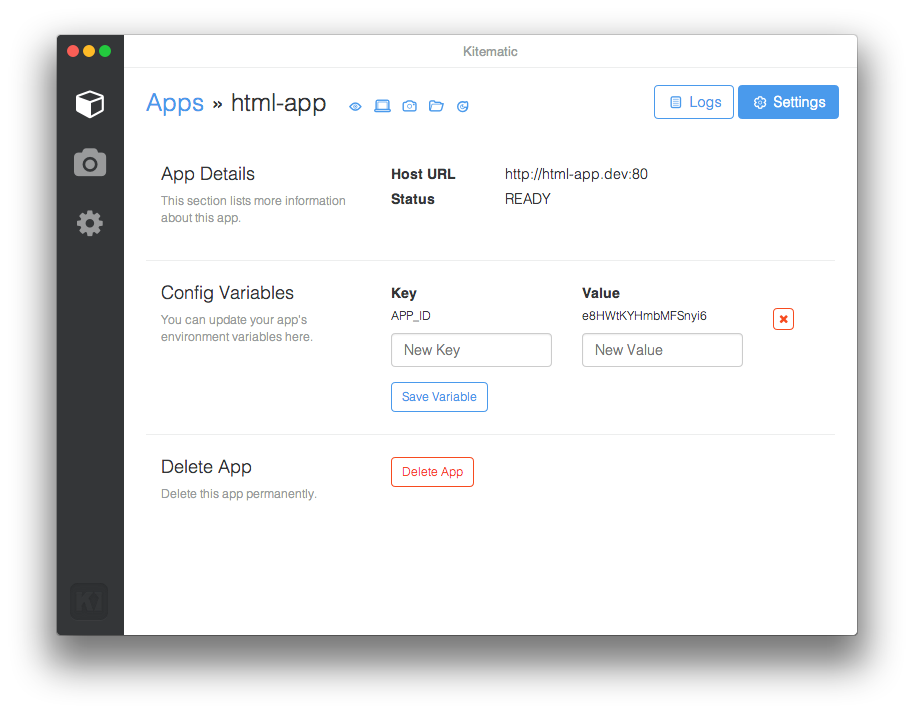
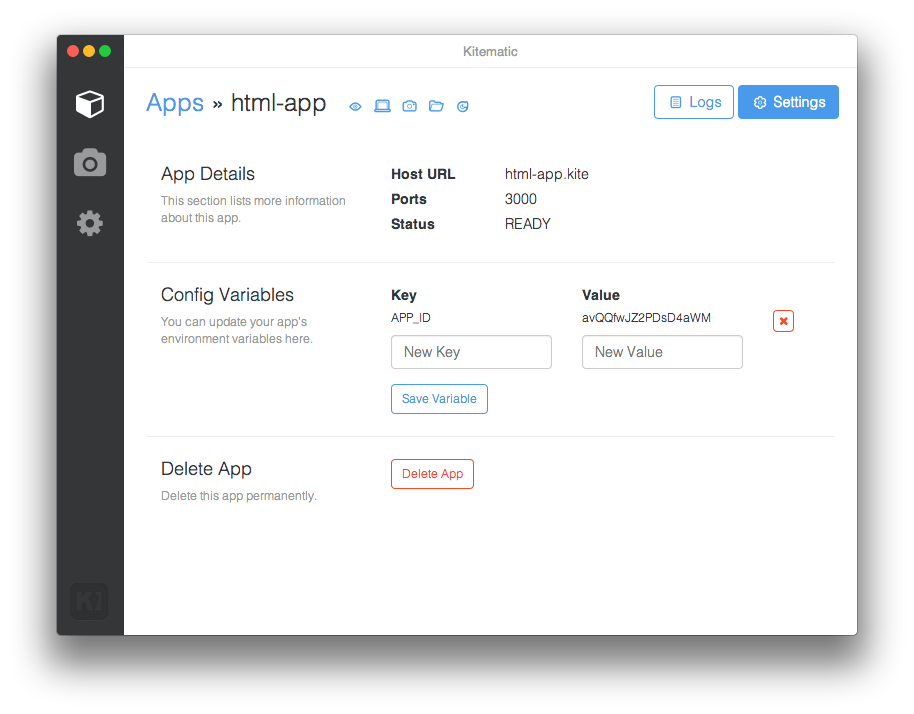
Change .dev to .kite

diff --git a/app/docs/examples.md b/app/docs/examples.md
@@ -35,7 +35,7 @@ environment variables to the node.js app so that it knows which Redis database i
 listen to.
 
 To edit the environment variables, click on the **gear** icon of the node.js app to go to its
-settings page. In the "Config Variables" section, add the following: **REDIS_HOST** to **redis.dev** (your-redis-appname.dev),
+settings page. In the "Config Variables" section, add the following: **REDIS_HOST** to **redis.kite** (your-redis-appname.kite),
 and **REDIS_PORT** to **6379** (official Redis port).
 
 ![Environment Variables](/img/examples/environment-variables.png)
@@ -50,7 +50,7 @@ You can have some fun using it.
 ![Todo Filled](/img/examples/todo-filled.png)
 
 You can also try to switching the node.js app to use another Redis database by creating a new Redis app from the built Redis image with a different name.
-Then you can set the node.js app's **REDIS_HOST** to **your-new-appname.dev**
+Then you can set the node.js app's **REDIS_HOST** to **your-new-appname.kite**
 
 ### Fun With Terminal
 
